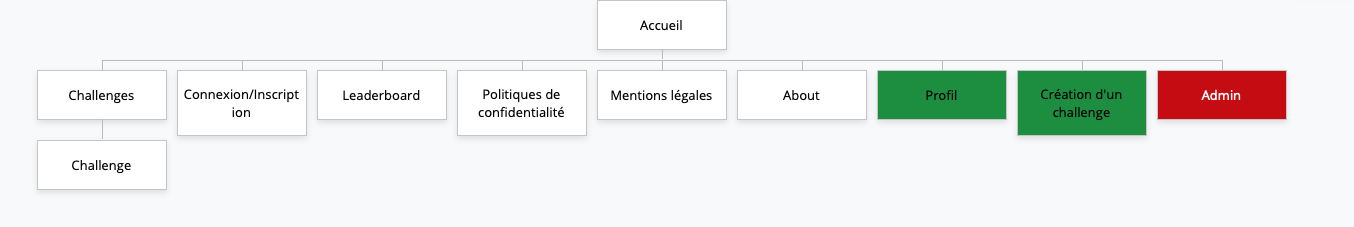
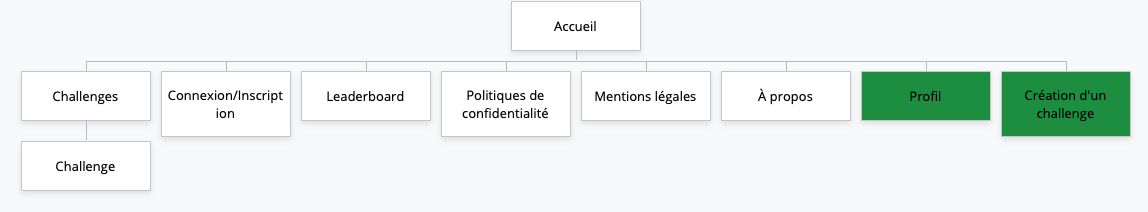
docs: update cahier des charges

diff --git a/docs/README.md b/docs/README.md
@@ -5,190 +5,106 @@
 Gamer challenges et une plateforme dédiée aux défis de jeux vidéo, permettant aux utilisateurs de proposer et relever des challenges sur différents jeux.
 Cette plateforme vise à rassembler les amateurs de jeux vidéo, quel que soit leur niveau, cherchant à se mesurer aux autres et à partager leurs expériences.
 
-## Présentation du Projet de Développement
+## MVP
 
 ### Le site comprend:
 - **une page d'accueil**, présentant les GamerChallenges, des défis en cours et populaires.
-- Une **page de inscription/connection** qui permet de gérer les utilisateurs
-- **page utilisateurs** pour permettre de créer de nouveaux challenges et visualiser ceux déjà postés. Possibilité de modifier les informations du profile
+- Une **page de inscription/connexion** qui permet de gérer les utilisateurs
+- **page utilisateur** pour permettre de créer de nouveaux challenges et visualiser ceux déjà postés. Possibilité de modifier les informations du profile
 - **Page de détail d'un challenge** comprend la description, les règles et vidéos des participants
 - **Page des challenges** 
-- **Système de votation** offre la possibilité aux utilisateurs de votés pour chaques challenges et participations.
-- **Tableau des leaders** Affiche les utilisateurs ayant réalisé le plus de défis et obtenu le plus de votes
+- **Tableau des leaders** Affiche les utilisateurs ayant réalisé le plus de défis
 
-
-## Les fonctionnalités 
-- Page d'accueil : 
-  - Logo retour accueil
-  - Affichages des défis en cours et populaires
-  - Bouton de inscription/connection
-  - Si connecté bouton profil logout
-  - nav bar: page des challenges, leaderbord, favoris, profil, home
-- page détails d'un challenges
-  - système de vote, bouton de publication d'un challenge remplis, niveau de difficultés
-- page des challenges
-- Tableau des leaders
-  - classement user ayant réalisé le plus de défis, et obtenu le plus de votes
 
 ## Evolutions possibles
+- Système de votation offre la possibilité aux utilisateurs de votés pour chaques challenges et participations.
 - Système de commentaires 
 - filtre de recherche
   - jeux, popularité, type, difficultées, catégories, popularités.
 - système de récompenses
   - badges
+- back-office admin
 
 
 ## La liste des technologies 
 
 - Back-end
 
-Node.js
+Node.js Express pour l'API REST et PostgreSQL pour la base de données
 
-Spécification : Environnement JavaScript serveur (V8), non bloquant, événementiel, pour applications réseau performantes.
-Utilisation principale : API, serveurs web, temps réel, outils CLI.
-
-**Express**
-Spécification : Framework web Node.js minimaliste et flexible pour API et applications web (routage, middlewares, HTTP).
-Utilisation principale : API RESTful, applications web (monocouche/multicouches).
-
-**Sequelize**
-Spécification : ORM Node.js (PostgreSQL, MySQL, SQLite, MariaDB, MSSQL) pour interagir avec les bases de données SQL via des objets JavaScript.
-Utilisation principale : Interaction bases de données SQL, modélisation, migrations.
-
-**API REST**
-Spécification : Architecture logicielle pour services web (méthodes HTTP, stateless, interface uniforme, ressources).
-Utilisation principale : Communication entre applications via HTTP.
-
-**TypeScript**
-Spécification : Sur-ensemble typé de JavaScript (compilation vers JS), ajoutant typage statique, interfaces, classes pour meilleure maintenabilité et détection d'erreurs.
-Utilisation principale : Développement d'applications JS complexes (serveur et client).
-
-**xss-sanitizer**
-Spécification : Bibliothèque JS pour nettoyer les entrées utilisateur et prévenir les attaques XSS (suppression/encodage de scripts malveillants).
-Utilisation principale : Sécurité web (filtrage des données utilisateur).
-
-**cors**
-Spécification : Mécanisme de sécurité navigateur (restreint requêtes inter-origines). Bibliothèque Node.js pour configurer les en-têtes d'autorisation.
-Utilisation principale : Autoriser l'accès à l'API depuis différents domaines front-end.
-
-**eslint**
-Spécification : Linter JS/TS (analyse statique du code pour style, erreurs, règles configurées).
-Utilisation principale : Qualité et cohérence du code.
-
-**Bcrypt**
-Spécification : Fonction de hachage de mot de passe robuste (salt, cost factor) contre les attaques par table arc-en-ciel.
-Utilisation principale : Stockage sécurisé des mots de passe.
-
-**PostgreSQL**
-Spécification : SGBDR open source puissant et fiable (ACID, SQL standard, fonctionnalités avancées).
-Utilisation principale : Stockage persistant, gestion des données et relations, requêtes complexes.
-
-**PG**
-Spécification : Client PostgreSQL pour Node.js (connexion, exécution de requêtes, gestion des résultats).
-Utilisation principale : Interaction Node.js avec PostgreSQL.
-
-**JOI**
-Spécification : Bibliothèque de validation de schéma JS (structure et contenu des objets, intégrité des données entrantes).
-Utilisation principale : Validation des données (utilisateur, requêtes API).
 
 - Front-end
 
-**React**
-Spécification : Bibliothèque JS pour UI interactives (composants, DOM virtuel, flux unidirectionnel).
-Utilisation principale : SPA, interfaces complexes, composants réutilisables.
+React avec TypeScript
 
-**TypeScript**
-Spécification : (Voir Back-end). Typage statique pour applications React plus robustes.
-Utilisation principale : Développement d'applications React complexes et maintenables.
 
-**Vite**
-Spécification : Outil de build front-end rapide (modules ES natifs en dev, Rollup en prod, support TS/JSX/CSS).
-Utilisation principale : Développement web moderne performant (notamment React).
-
-CSS Vanilla / Bulma ...
-**CSS Vanilla** : CSS pur (contrôle total, verbeux pour grands projets).
-Utilisation principale : Petits projets, styles spécifiques, apprentissage CSS.
-
-**Bulma**
-Framework CSS Flexbox (grille responsive, composants pré-stylisés, personnalisation facile).
-Utilisation principale : Développement rapide d'UI responsives.
-
-**Jwt token**
-Spécification : Standard ouvert pour transmettre des informations sécurisées (JSON signé), utilisé pour l'authentification/autorisation côté client.
-Utilisation principale : Authentification et autorisation utilisateur.
-
-**Zustand**
-Spécification : Petite, rapide et simple librairie de gestion d'état pour React et JavaScript. Utilise des hooks pour créer et consommer des "stores" contenant l'état et les actions pour le modifier. Se concentre sur la simplicité et la performance avec une API minimaliste.
-Utilisation principale : Gestion de l'état global ou local dans les applications React, alternative plus simple à Redux ou Context API pour de nombreux cas d'usage.
 
 ## Public visé
 Tous les utilisateurs, amateurs de jeux vidéos et défis
 
 
 ## Navigateurs compatibles
-Application disponible sur tous les navigateurs desktop/mobile, développement en mobile first.
+- Safari 18.4
+- Modzilla firefox 137.0
+- Google chrome 135.0
 
 ## Arborescence de l'application
 ![Arborescence](Arborescence.png)
-
 légende : 
  - les pages vertes ne sont accessibles que par les utilisateurs connectés.
- - la page rouge n'est accessible qu'avec un profil administrateur.
 
 ## Routes
 
 - Challenges
 
-| Verbe | Chemin        | Request Body | Response Body          | Code (succès) |
-| ----- | ------------- | ------------ | ---------------------- | --------------- |
-| GET   | /challenges     |              | un tableau de challenges | 200             |
-| GET   | /challenges/:id |              | un challenge            | 200             |
-| POST  | /challenges  |          |  | 201 |
-| PATCH  | /challenges/:id | |  | 200 |
+| Verbe | Chemin        |  Response Body  | Code (succès) |
+| ----- | ------------- | ------------ | --------------- |
+| GET   | /challenges     | un tableau de challenges | 200      |
+| GET   | /challenges/:id | un challenge            | 200          |
+| POST  | /challenges  | les données du challenge | 201 |
+| PATCH  | /challenges/:id | le challenge mis à jour | 200 |
+| DELETE | /challenges/:id |   | 204 |
 
 - Categories
 
-| Verbe | Chemin     | Request Body | Response Body       | Code (succès) |
-| ----- | ---------- | ------------ | ------------------- | ----------- |
-| GET   | /categories     |              | un tableau de catégories | 200         |
-| GET   | /categories/:id |              | une catégorie             | 200         |
+| Verbe | Chemin     | Response Body  | Code (succès) |
+| ----- | ---------- | ------------ | ----------- |
+| GET   | /categories     | un tableau de catégories | 200         |
+| GET   | /categories/:id | une catégorie             | 200         |
+| POST  | /categories   | les données de la catégorie | 201  |
+| PATCH | /categories/:id | la catégorie mise à jour | 200 |
+| DELETE | /categories/:id |  | 204 |
 
-- Difficultés
+- Difficulties
 
-| Verbe | Chemin     | Request Body | Response Body       | Code (succès) |
-| ----- | ---------- | ------------ | ------------------- | ----------- |
-| GET   | /difficulties     |              | un tableau de difficultés | 200         |
-| GET   | /difficulties/:id |              | une difficulté             | 200         |
+| Verbe | Chemin     | Response Body   | Code (succès) |
+| ----- | ---------- | ------------ | ----------- |
+| GET   | /difficulties     | un tableau de difficultés | 200         |
+| GET   | /difficulties/:id | une difficulté             | 200         |
+| POST  | /difficulties   | les données d'une difficulté | 201  |
+| PATCH | /difficulties/:id |  la difficulté mise à jour | 200 |
+| DELETE | /difficulties/:id |  | 204 |
 
-- Utilisateur
+- Users
 
-| Verbe | Chemin     | Request Body | Response Body       | Code (succès) |
-| ----- | ---------- | ------------ | ------------------- | ----------- |
-| GET   | /users     |              | un tableau d'utilisateurs | 200         |
-| GET   | /users/:id |              | un utilisateur            | 200         |
-| POST  | /users   |            | les données d'un utilistateur | 201  |
-| PATCH | /users/:id | les données à modifier | l'utilisateur mis à jour | 200 |
-| DELETE | /users/:id |  |   | 204 |
+| Verbe | Chemin     | Response Body       | Code (succès) |
+| ----- | ---------- |  -------------------| ----------- |
+| GET   | /users     | un tableau d'utilisateurs | 200         |
+| GET   | /users/:id | un utilisateur            | 200         |
+| POST  | /users   | les données d'un utilistateur | 201  |
+| PATCH | /users/:id |  l'utilisateur mis à jour | 200 |
+| DELETE | /users/:id |  | 204 |
 
-- Participation
+- Submissions
 
-| Verbe | Chemin     | Request Body | Response Body       | Code (succès) |
-| ----- | ---------- | ------------ | ------------------- | ----------- |
-| GET   | /participation     |              | un tableau des participations | 200         |
-| GET   | /participation/:id |              | une participation            | 200         |
-| POST  | /participation   |            | les données d'une participation | 201  |
-| PATCH | /participation/:id | les données à modifier | la participation mise à jour | 200 |
-| DELETE | /participation/:id |  |   | 204 |
+| Verbe | Chemin     | Response Body       | Code (succès) |
+| ----- | ---------- | ------------------- | ----------- |
+| GET   | /submissions     | un tableau des participations | 200         |
+| GET   | /submissions/:id |  une participation            | 200         |
+| POST  | /submissions   | les données d'une participation | 201  |
+| PATCH | /submissions:id | la participation mise à jour | 200 |
+| DELETE | /submissions/:id |  | 204 |
 
-- Votes
-
-| Verbe | Chemin     | Request Body | Response Body       | Code (succès) |
-| ----- | ---------- | ------------ | ------------------- | ----------- |
-| GET   | /rattings     |              | un tableau des votes | 200         |
-| GET   | /ratings/:id |              | un vote            | 200         |
-| POST  | /rattings   |            | les données d'un vote | 201  |
-| PATCH | /rattings/:id | les données à modifier | la participation mise à jour | 200 |
-| DELETE | /rattings/:id |  |   | 204 |
 
 ## User stories
 
@@ -200,23 +116,20 @@ légende :
 | non connecté | consulter la page des challenges | motiver à participer |
 | non connecté | consulter le leaderboard | voir les meilleurs joueurs et les challenges les plus populaires |
 | non connecté | voir les participations aux challenges | me divertir |
-| non connecté | filtrer les challenges | les consulter par catégorie/difficulté |
-| non connecté | contacter le support | poser des questions |
 | connecté | accéder à mon profil | le personnaliser/le modifier/le supprimer |
 | connecté | pouvoir créer un nouveau challenge | challenger les autres utilisateurs |
 | connecté | modifier un challenge que j'ai créé | corriger une erreur ou ajouter un élément |
 | connecté | supprimer un challenge de j'ai créé | ne plus le voir |
-| connecté | voter pour un challenge/participant | donner mon avis |
 | connecté | participer à un challenge | de tester mes capacités dans l'art du jeu vidéo |
 | connecté | voir ma position dans le classement des participants | voir mon écart avec les autres participants |
 | administrateur | modérer le site | m'assurer de la qualité du contenu |
-| adminstrateur | que les utilisateurs puissent me contacter | répondre à leurs questions |
 
 ## Rôles 
 
 - Product owner : Sandrine
 - Scrum master : Kishan
-- Lead dev : Mathias
+- Lead dev back : Mathias
+- Lead dev front : Kishan
 - Git master : Benjamin
 
 

diff --git a/docs/data.md b/docs/data.md
@@ -2,59 +2,58 @@
 
 ## MCD
 
-![MCD](/docs/MCD.svg)
+![MCD](/docs/MCD.png)
 
 ## MLD
 
-![MLD](/docs/MLD.svg)
+![MLD](/docs/MLD.png)
 
 ## Dictionnaire des données
 
-### Table Utilisateur
+### Table user
 
 | Champ | Type  | Spécificités | Description |
 | -------------- | ----------- | ------------ | ---------- | 
 | id | INT |  PRIMARY KEY, NOT NULL, AUTO_INCREMENT | identifaction de l'utilisateur dans la base données |
-| Pseudo | VARCHAR(50) |  NOT NULL, UNIQUE | identification et affichage du pseudo de l'utilisateur |
-| Email | VARCHAR(100) |  NOT NULL, UNIQUE | identification et affichage de l'email de l'utilisateur |
-| Mot de passe | VARCHAR(50) | NOT NULL |  authentification de l'utilisateur |
-| Avatar | TEXT |  | personnalisation du profil l'utilisateur |
-| Role | BOOLEAN | NOT NULL | ouvre les droits administrateur |
+| pseudo | VARCHAR(50) |  NOT NULL, UNIQUE | identification et affichage du pseudo de l'utilisateur |
+| email | VARCHAR(100) |  NOT NULL, UNIQUE | identification et affichage de l'email de l'utilisateur |
+| password | VARCHAR(50) | NOT NULL |  authentification de l'utilisateur |
+| avatar | TEXT |  | personnalisation du profil l'utilisateur |
+| role | ENUM | NOT NULL | ouvre les droits en fonction du rôle utilisateur |
 
 
-### Table Challenge
+### Table challenge
 
 | Champ | Type  | Spécificités | Description |
 | -------------- | ----------- | ------------ | ---------- | 
 | id | INT |  PRIMARY KEY, NOT NULL, AUTO_INCREMENT | identifaction du challenge dans la base données |
-| Nom | VARCHAR(50) |  NOT NULL, UNIQUE | identification et affichage du challenge |
-| Description | TEXT |  NOT NULL | détails du challenge réalisé |
-| Votes | INT | |  nombre de votes d'un challenge |
-| Vidéo | TEXT | NOT NULL | démonstration du challenge |
-| Auteur | FOREIGN_KEY | NOT NULL | l'auteur du challenge |
-| Catégorie | FOREIGN_KEY | NOT NULL | type de challenge |
-| Difficulté | FOREIGN_KEY | NOT NULL | niveau de difficulté du challenge |
+| name | VARCHAR(50) |  NOT NULL, UNIQUE | identification et affichage du challenge |
+| description | TEXT |  NOT NULL | détails du challenge réalisé |
+| video | TEXT | NOT NULL | démonstration du challenge |
+| author | ENTITY | NOT NULL | l'auteur du challenge |
+| category | ENTITY | NOT NULL | type de challenge |
+| difficulty | ENTITY | NOT NULL | niveau de difficulté du challenge |
 
-## Table Catégorie
+## Table category
 
 | Champ | Type  | Spécificités | Description |
 | -------------- | ----------- | ------------ | ---------- | 
 | id | INT |  PRIMARY KEY, NOT NULL, AUTO_INCREMENT | identifaction de la catégorie dans la base données |
-| Nom | VARCHAR(50) |  NOT NULL, UNIQUE | identification et affichage de la catégorie |
-| Couleur | VARCHAR(7) |  NOT NULL | couleur associé à la catégorie |
+| name | VARCHAR(50) |  NOT NULL, UNIQUE | identification et affichage de la catégorie |
+| color | VARCHAR(7) |  NOT NULL | couleur associé à la catégorie |
 
-## Table Difficulté
+## Table difficulty
 
 | Champ | Type  | Spécificités | Description |
 | -------------- | ----------- | ------------ | ---------- | 
 | id | INT |  PRIMARY KEY, NOT NULL, AUTO_INCREMENT | identifaction de la difficulté dans la base données |
-| Nom | VARCHAR(50) |  NOT NULL, UNIQUE | identification et affichage de la difficulté |
-| Couleur | VARCHAR(7) |  NOT NULL | couleur associé à la difficulté |
+| name | VARCHAR(50) |  NOT NULL, UNIQUE | identification et affichage de la difficulté |
+| color | VARCHAR(7) |  NOT NULL | couleur associé à la difficulté |
 
 ## Table d'association PARTICIPER entre les tables Utilisateur et Challenge
 
 | Champ | Type  | Spécificités | Description |
 | -------------- | ----------- | ------------ | ---------- | 
-| user_id | FOREIGN_KEY |  PRIMARY_KEY, NOT NULL | identifaction de l'utilisateur |
-| challenge_id | FOREIGN_KEY |  PRIMARY_KEY, NOT NULL | identification du challenge |
-| Vidéo | TEXT | NOT NULL | vidéo du participant |
+| user_id | ENTITY |  PRIMARY_KEY, NOT NULL | identifaction de l'utilisateur |
+| challenge_id | ENTITY |  PRIMARY_KEY, NOT NULL | identification du challenge |
+| video | TEXT | NOT NULL | vidéo du participant |
